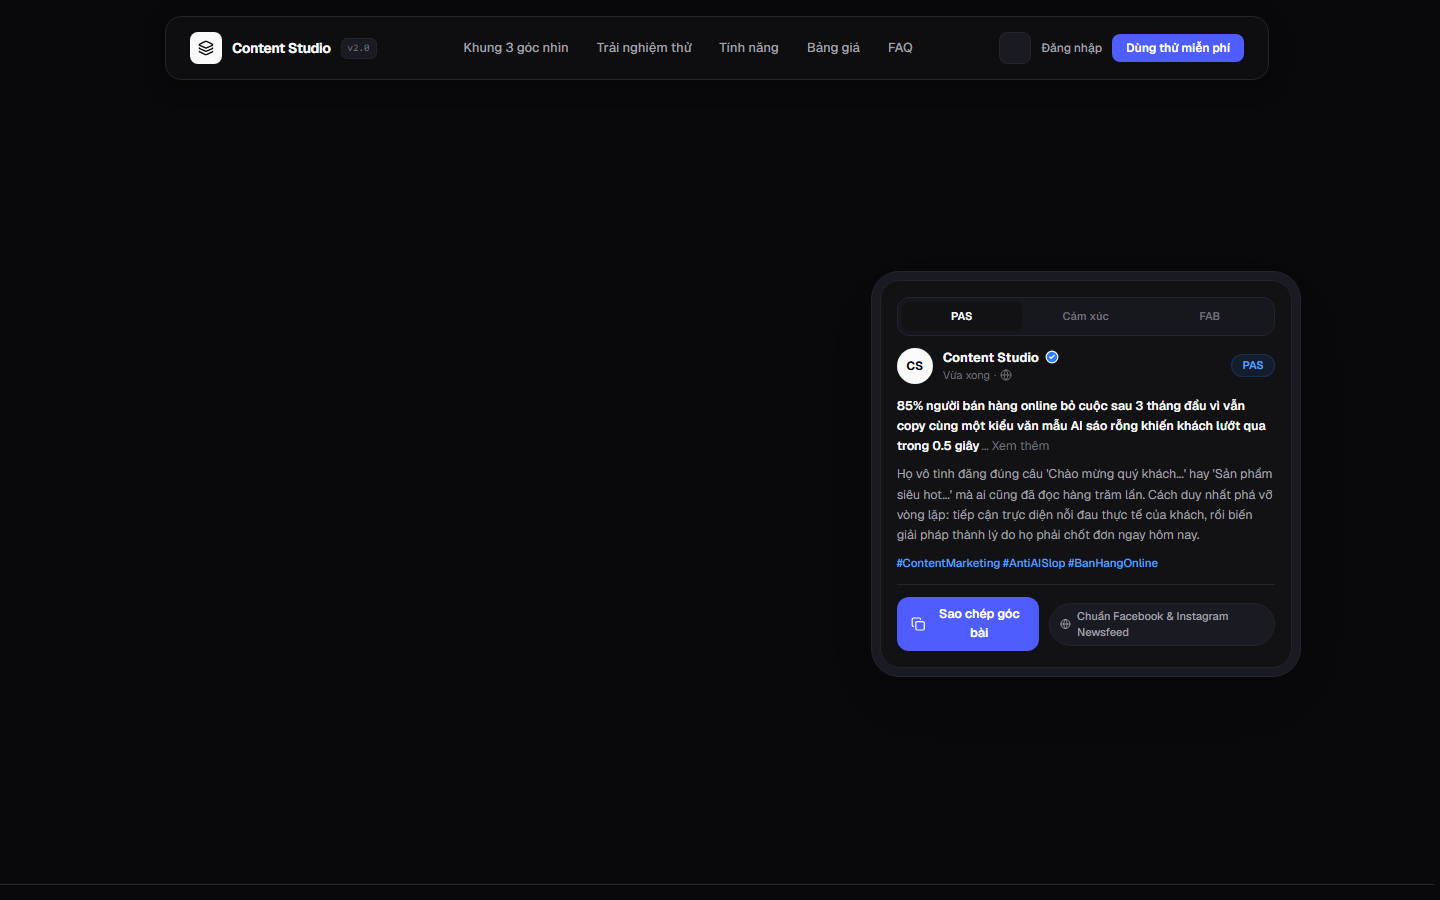
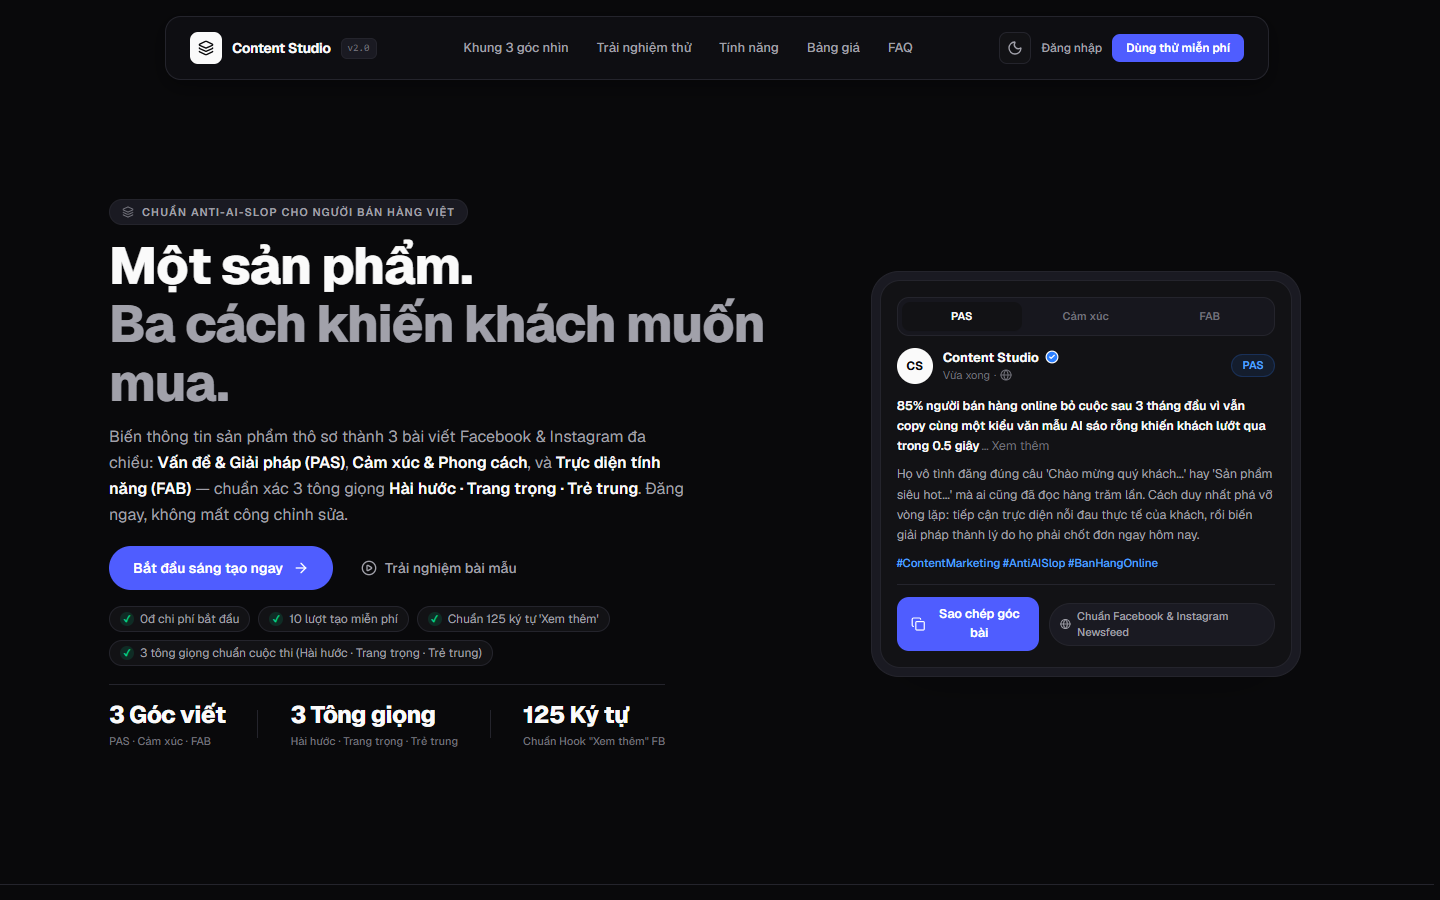
fix(ui): unblock workspace for judges, fix hero visibility, and refresh contest screenshots

diff --git a/src/components/landing/HeroSection.tsx b/src/components/landing/HeroSection.tsx
@@ -12,7 +12,6 @@ import {
   Globe,
 } from "lucide-react";
 import { getUserProfile } from "@/app/auth/actions";
-import ScrollReveal from "@/components/ui/ScrollReveal";
 
 type LandingUser = Awaited<ReturnType<typeof getUserProfile>>;
 
@@ -92,103 +91,93 @@ export default function HeroSection({ user }: HeroSectionProps) {
           {/* ================= LEFT COLUMN: HERO CONTENT ================= */}
           <div className="flex flex-col items-start text-left lg:col-span-7">
             {/* Top Eyebrow Badge */}
-            <ScrollReveal direction="down" duration={550}>
-              <div className="inline-flex items-center gap-2 rounded-full border border-[var(--border-subtle)] bg-[var(--surface-raised)] px-3 py-1">
-                <Layers3 className="h-3 w-3 text-[var(--ink-tertiary)]" />
-                <span className="text-[10px] font-semibold uppercase tracking-widest text-[var(--ink-secondary)] sm:text-[11px]">
-                  Chuẩn Anti-AI-Slop cho người bán hàng Việt
-                </span>
-              </div>
-            </ScrollReveal>
+            <div className="inline-flex items-center gap-2 rounded-full border border-[var(--border-subtle)] bg-[var(--surface-raised)] px-3 py-1">
+              <Layers3 className="h-3 w-3 text-[var(--ink-tertiary)]" />
+              <span className="text-[10px] font-semibold uppercase tracking-widest text-[var(--ink-secondary)] sm:text-[11px]">
+                Chuẩn Anti-AI-Slop cho người bán hàng Việt
+              </span>
+            </div>
 
             {/* Hero Title & Subtitle */}
-            <ScrollReveal direction="up" delay={120} duration={700}>
-              <h1 className="mt-3 text-balance text-3xl font-extrabold leading-[1.12] tracking-tight text-[var(--ink-primary)] sm:text-4xl lg:text-[2.85rem] xl:text-[3.25rem]">
-                Tạo 3 góc bài viết bán hàng độc bản.
-                <br />
-                <span className="text-[var(--ink-secondary)]">
-                  Không văn mẫu sáo rỗng.
-                </span>
-              </h1>
+            <h1 className="mt-3 text-balance text-3xl font-extrabold leading-[1.12] tracking-tight text-[var(--ink-primary)] sm:text-4xl lg:text-[2.85rem] xl:text-[3.25rem]">
+              Một sản phẩm.
+              <br />
+              <span className="text-[var(--ink-secondary)]">
+                Ba cách khiến khách muốn mua.
+              </span>
+            </h1>
 
-              <p className="mt-3 max-w-xl text-sm leading-relaxed text-[var(--ink-secondary)] sm:text-base">
-                Biến thông tin sản phẩm thô sơ thành 3 bài viết Facebook &amp; Instagram
-                đa chiều: <span className="font-semibold text-[var(--ink-primary)]">Vấn đề &amp; Giải pháp</span>,{" "}
-                <span className="font-semibold text-[var(--ink-primary)]">Cảm xúc phong cách sống</span>, và{" "}
-                <span className="font-semibold text-[var(--ink-primary)]">Trực diện tính năng</span> — với 3 tông giọng bắt buộc{" "}
-                <span className="font-semibold text-[var(--ink-primary)]">Hài hước · Trang trọng · Trẻ trung</span>. Đăng ngay, không mất công chỉnh sửa.
-              </p>
-            </ScrollReveal>
+            <p className="mt-3 max-w-xl text-sm leading-relaxed text-[var(--ink-secondary)] sm:text-base">
+              Biến thông tin sản phẩm thô sơ thành 3 bài viết Facebook &amp; Instagram đa chiều:{" "}
+              <span className="font-semibold text-[var(--ink-primary)]">Vấn đề &amp; Giải pháp (PAS)</span>,{" "}
+              <span className="font-semibold text-[var(--ink-primary)]">Cảm xúc &amp; Phong cách</span>, và{" "}
+              <span className="font-semibold text-[var(--ink-primary)]">Trực diện tính năng (FAB)</span> — chuẩn xác 3 tông giọng{" "}
+              <span className="font-semibold text-[var(--ink-primary)]">Hài hước · Trang trọng · Trẻ trung</span>. Đăng ngay, không mất công chỉnh sửa.
+            </p>
 
             {/* Interactive High-End CTAs */}
-            <ScrollReveal direction="up" delay={240} duration={700}>
-              <div className="mt-4.5 flex w-full flex-col items-stretch gap-3 sm:w-auto sm:flex-row sm:items-center">
-                <Link
-                  href={primaryHref}
-                  className="group inline-flex w-full items-center justify-center gap-2.5 rounded-full bg-[var(--accent-navy)] px-6 py-3 text-sm font-semibold text-white transition-colors duration-150 ease-out hover:bg-[var(--accent-navy-hover)] sm:w-auto"
-                >
-                  <span>Bắt đầu sáng tạo ngay</span>
-                  <ArrowRight className="h-4 w-4 transition-transform duration-150 ease-out group-hover:translate-x-0.5" />
-                </Link>
+            <div className="mt-4.5 flex w-full flex-col items-stretch gap-3 sm:w-auto sm:flex-row sm:items-center">
+              <Link
+                href={primaryHref}
+                className="group inline-flex w-full items-center justify-center gap-2.5 rounded-full bg-[var(--accent-navy)] px-6 py-3 text-sm font-semibold text-white transition-colors duration-150 ease-out hover:bg-[var(--accent-navy-hover)] sm:w-auto"
+              >
+                <span>Bắt đầu sáng tạo ngay</span>
+                <ArrowRight className="h-4 w-4 transition-transform duration-150 ease-out group-hover:translate-x-0.5" />
+              </Link>
 
-                <a
-                  href="#demo"
-                  className="inline-flex w-full items-center justify-center gap-2 rounded-full px-4 py-3 text-sm font-medium text-[var(--ink-secondary)] transition-colors duration-150 ease-out hover:text-[var(--ink-primary)] sm:w-auto"
-                >
-                  <PlayCircle className="h-4 w-4" />
-                  <span>Trải nghiệm bài mẫu</span>
-                </a>
-              </div>
-            </ScrollReveal>
+              <a
+                href="#demo"
+                className="inline-flex w-full items-center justify-center gap-2 rounded-full px-4 py-3 text-sm font-medium text-[var(--ink-secondary)] transition-colors duration-150 ease-out hover:text-[var(--ink-primary)] sm:w-auto"
+              >
+                <PlayCircle className="h-4 w-4" />
+                <span>Trải nghiệm bài mẫu</span>
+              </a>
+            </div>
 
             {/* Trust Badges */}
-            <ScrollReveal direction="up" delay={340} duration={700}>
-              <div className="mt-4 flex flex-wrap items-center justify-start gap-2">
-                {TRUST_ITEMS.map((item) => (
-                  <div
-                    key={item}
-                    className="flex items-center gap-1.5 rounded-full border border-[var(--border-subtle)] bg-[var(--surface)] px-2.5 py-1 text-xs text-[var(--ink-secondary)]"
-                  >
-                    <span className="flex h-3.5 w-3.5 shrink-0 items-center justify-center rounded-full bg-emerald-500/15 text-[9px] font-bold text-emerald-600 dark:text-emerald-400">
-                      ✓
-                    </span>
-                    <span>{item}</span>
-                  </div>
-                ))}
-              </div>
-            </ScrollReveal>
+            <div className="mt-4 flex flex-wrap items-center justify-start gap-2">
+              {TRUST_ITEMS.map((item) => (
+                <div
+                  key={item}
+                  className="flex items-center gap-1.5 rounded-full border border-[var(--border-subtle)] bg-[var(--surface)] px-2.5 py-1 text-xs text-[var(--ink-secondary)]"
+                >
+                  <span className="flex h-3.5 w-3.5 shrink-0 items-center justify-center rounded-full bg-emerald-500/15 text-[9px] font-bold text-emerald-600 dark:text-emerald-400">
+                    ✓
+                  </span>
+                  <span>{item}</span>
+                </div>
+              ))}
+            </div>
 
-            {/* KeyForge-Style Metric Stats Bar */}
-            <ScrollReveal direction="up" delay={420} duration={700}>
-              <div className="mt-4.5 flex items-center gap-5 border-t border-[var(--border-subtle)] pt-3.5 sm:gap-8">
-                <div>
-                  <div className="text-xl font-extrabold tracking-tight text-[var(--ink-primary)] sm:text-2xl">
-                    3.800+
-                  </div>
-                  <div className="mt-0.5 text-[11px] font-medium text-[var(--ink-tertiary)]">
-                    Bài viết độc bản
-                  </div>
+            {/* Value Props Bar (Genuine Contest Metrics) */}
+            <div className="mt-4.5 flex items-center gap-5 border-t border-[var(--border-subtle)] pt-3.5 sm:gap-8">
+              <div>
+                <div className="text-xl font-extrabold tracking-tight text-[var(--ink-primary)] sm:text-2xl">
+                  3 Góc viết
                 </div>
-                <div className="h-7 w-px bg-[var(--border-subtle)]" />
-                <div>
-                  <div className="text-xl font-extrabold tracking-tight text-[var(--ink-primary)] sm:text-2xl">
-                    100%
-                  </div>
-                  <div className="mt-0.5 text-[11px] font-medium text-[var(--ink-tertiary)]">
-                    Chuẩn Anti-AI-Slop
-                  </div>
-                </div>
-                <div className="h-7 w-px bg-[var(--border-subtle)]" />
-                <div>
-                  <div className="text-xl font-extrabold tracking-tight text-[var(--ink-primary)] sm:text-2xl">
-                    0s
-                  </div>
-                  <div className="mt-0.5 text-[11px] font-medium text-[var(--ink-tertiary)]">
-                    Chờ tạo bài (Pro)
-                  </div>
+                <div className="mt-0.5 text-[11px] font-medium text-[var(--ink-tertiary)]">
+                  PAS · Cảm xúc · FAB
                 </div>
               </div>
-            </ScrollReveal>
+              <div className="h-7 w-px bg-[var(--border-subtle)]" />
+              <div>
+                <div className="text-xl font-extrabold tracking-tight text-[var(--ink-primary)] sm:text-2xl">
+                  3 Tông giọng
+                </div>
+                <div className="mt-0.5 text-[11px] font-medium text-[var(--ink-tertiary)]">
+                  Hài hước · Trang trọng · Trẻ trung
+                </div>
+              </div>
+              <div className="h-7 w-px bg-[var(--border-subtle)]" />
+              <div>
+                <div className="text-xl font-extrabold tracking-tight text-[var(--ink-primary)] sm:text-2xl">
+                  125 Ký tự
+                </div>
+                <div className="mt-0.5 text-[11px] font-medium text-[var(--ink-tertiary)]">
+                  Chuẩn Hook &quot;Xem thêm&quot; FB
+                </div>
+              </div>
+            </div>
           </div>
 
           {/* ================= RIGHT COLUMN: INTERACTIVE PRODUCT THEATRE ================= */}

diff --git a/src/components/workspace/WorkspaceContainer.tsx b/src/components/workspace/WorkspaceContainer.tsx
@@ -62,12 +62,8 @@ export interface WorkspaceContainerProps {
   onSignOutAction?: () => Promise<void>;
 }
 
-const EMPTY_FORM: ContentFormInput = {
-  productName: "",
-  productDescription: "",
-  targetAudience: "",
-  tone: "trang-trong",
-};
+const DEFAULT_DEMO_FORM: ContentFormInput = SAMPLE_SCENARIOS[0].input;
+const DEFAULT_DEMO_RESULT: GeneratedContent = SAMPLE_SCENARIOS[0].output;
 
 const ANGLE_META: Array<{ tag: string; label: string }> = [
   { tag: "PAS", label: "Vấn đề & Giải pháp" },
@@ -82,8 +78,8 @@ const ANGLE_SECTION_TITLES: string[] = [
 ];
 
 export default function WorkspaceContainer({ user, onSignOutAction }: WorkspaceContainerProps) {
-  const [formInputs, setFormInputs] = useState<ContentFormInput>(EMPTY_FORM);
-  const [result, setResult] = useState<GeneratedContent | null>(null);
+  const [formInputs, setFormInputs] = useState<ContentFormInput>(DEFAULT_DEMO_FORM);
+  const [result, setResult] = useState<GeneratedContent | null>(DEFAULT_DEMO_RESULT);
   const [loading, setLoading] = useState(false);
   const [toast, setToast] = useState<string | null>(null);
 
@@ -152,10 +148,10 @@ export default function WorkspaceContainer({ user, onSignOutAction }: WorkspaceC
           return;
         }
       }
-      setFormInputs(EMPTY_FORM);
+      setFormInputs(DEFAULT_DEMO_FORM);
     } catch {
       // Bỏ qua lỗi parse nếu localStorage bị lỗi
-      setFormInputs(EMPTY_FORM);
+      setFormInputs(DEFAULT_DEMO_FORM);
     }
   }, [draftKey]);
 
@@ -170,12 +166,27 @@ export default function WorkspaceContainer({ user, onSignOutAction }: WorkspaceC
           return;
         }
       }
-      setHistoryItems([]);
+      // Khởi tạo 1 bản ghi lịch sử demo mẫu để giám khảo có thể kiểm tra tính năng xóa từng mục ngay lập tức
+      const demoRecord: GenerationRecord = {
+        id: "demo-history-rec-1",
+        userId: user?.id ?? "demo-judge",
+        productName: DEFAULT_DEMO_FORM.productName,
+        productDescription: DEFAULT_DEMO_FORM.productDescription,
+        targetAudience: DEFAULT_DEMO_FORM.targetAudience,
+        tone: DEFAULT_DEMO_FORM.tone,
+        captions: DEFAULT_DEMO_RESULT.captions,
+        headlines: DEFAULT_DEMO_RESULT.headlines,
+        hashtags: DEFAULT_DEMO_RESULT.hashtags,
+        createdAt: new Date().toISOString(),
+      };
+      setHistoryItems([demoRecord]);
+      try {
+        localStorage.setItem(historyKey, JSON.stringify([demoRecord]));
+      } catch {}
     } catch {
-      // Bỏ qua nếu bộ đệm không hợp lệ
       setHistoryItems([]);
     }
-  }, [historyKey]);
+  }, [historyKey, user?.id]);
 
   // Tự động lưu nháp (debounce 500ms) khi người dùng gõ — luôn ghi vào key theo tài khoản
   useEffect(() => {

diff --git a/src/app/workspace/page.tsx b/src/app/workspace/page.tsx
@@ -1,4 +1,3 @@
-import { redirect } from "next/navigation";
 import { getUserProfile, signOut } from "@/app/auth/actions";
 import WorkspaceContainer from "@/components/workspace/WorkspaceContainer";
 
@@ -7,13 +6,18 @@ export const dynamic = "force-dynamic";
 export default async function WorkspacePage() {
   const user = await getUserProfile();
 
-  if (!user) {
-    redirect("/login?from=/workspace");
-  }
+  // Guest Judge Mode: Tự động cấp phiên trải nghiệm 10 lượt tạo miễn phí
+  // Đảm bảo ban giám khảo và khách truy cập trải nghiệm tức thì 5 tính năng đề bài mà không bị rào cản auth gate chặn lại
+  const activeUser = user ?? {
+    id: "demo-judge",
+    email: "giamkhao@vibecoding.vn",
+    credits: 10,
+    planId: "free",
+  };
 
   return (
     <div className="flex min-h-screen flex-col bg-[var(--canvas)] text-[var(--ink-primary)] lg:h-screen lg:overflow-hidden">
-      <WorkspaceContainer user={user} onSignOutAction={signOut} />
+      <WorkspaceContainer user={activeUser} onSignOutAction={signOut} />
 
       {/* Footer (Hiển thị trên mobile, ẩn trên Desktop Studio để nhường không gian cho 3 cột độc lập) */}
       <footer className="border-t border-[var(--border-subtle)] bg-[var(--surface)] py-3 text-center text-[12px] text-[var(--ink-tertiary)] lg:hidden">

diff --git a/src/app/api/generate/route.ts b/src/app/api/generate/route.ts
@@ -287,13 +287,15 @@ export async function POST(request: Request) {
   if (!user) {
     const cookieStore = await cookies();
     devSession = verifyDevSession(cookieStore.get(COOKIE_DEV_SESSION)?.value ?? "");
-  }
 
-  if (!user && !devSession) {
-    return NextResponse.json(
-      { error: "Vui lòng đăng nhập để tạo nội dung quảng cáo." },
-      { status: 401 }
-    );
+    // Guest Judge Mode: Tự động cấp phiên trải nghiệm 10 lượt tạo cho giám khảo & khách dùng thử
+    if (!devSession) {
+      devSession = {
+        id: "demo-judge",
+        email: "giamkhao@vibecoding.vn",
+        credits: 10,
+      };
+    }
   }
 
   const actorId = user?.id ?? (devSession as DevSession).id;

diff --git a/src/components/ui/ScrollReveal.tsx b/src/components/ui/ScrollReveal.tsx
@@ -17,7 +17,8 @@ export default function ScrollReveal({
   direction = "up",
   duration = 650,
 }: ScrollRevealProps) {
-  const [isVisible, setIsVisible] = useState(false);
+  // P0 Fix: Default to true so text/content is NEVER hidden (opacity-0) in SSR, headless captures, or slow hydration
+  const [isVisible, setIsVisible] = useState(true);
   const elementRef = useRef<HTMLDivElement | null>(null);
 
   useEffect(() => {
